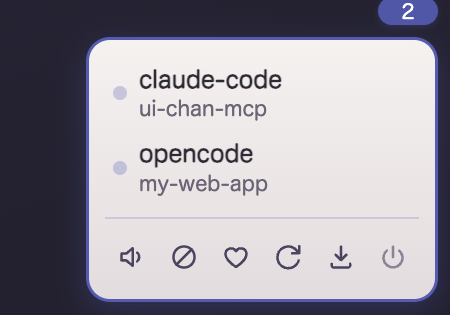
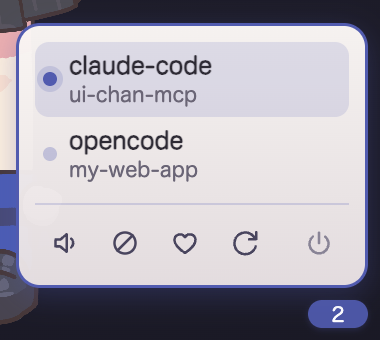
docs: パネルが足元（右下）へ移ったのを文書に反映する
dbbe8a2 でつまみを右下へ移し上へ開くようにしたが、README・CLIENTS・
TROUBLESHOOTING・CLAUDE.md はどれも「右上」のままだった。あわせて、
1f557b7 で入れた「セッション行を押すとそのクライアントを前面に出す」が
どこにも書かれていなかったので足す。

CLAUDE.md の「house = リセット」は実装と食い違っていた（家アイコンは
一度も入っておらず、今も丸矢印）。実装を正として書き直し、意味を
担っているのがグリフではなく title 属性だという事実に合わせる。

スクリーンショットも撮り直し（上端から下へ開く古い状態のままだった）。

Claude-Session: https://claude.ai/code/session_01NVTPpefu5yBBWg15PJSy8S

diff --git a/CLAUDE.md b/CLAUDE.md
@@ -398,10 +398,14 @@ not 「あたし」**) and for calling the user 「きみ」.
 With several hosts able to connect at once, the user needs to know *which*
 session a line belongs to — but a permanent HUD next to the mascot breaks the
 world, which is a hard non-functional requirement here. So the panel is
-collapsed to a small ribbon tab in the window's top-right corner: a **hamburger
-when 0–1 sessions are connected** (nothing to report; it is just a menu), the
-**session count when 2+** are. It opens on click, and opens *itself* only on a
-change into a multi-session state — the one thing the user cannot infer — then
+collapsed to a small ribbon tab in the window's bottom-right corner, at her
+feet: a **hamburger when 0–1 sessions are connected** (nothing to report; it is just a menu), the
+**session count when 2+** are. The tab stays pinned to the bottom edge and the
+body opens *upward* (`flex-direction: column-reverse`): at the top it fought the
+speech bubble for the same space, and the bubble is her voice, so the panel is
+always the one that yields — her feet are the one part no Cue touches, so
+covering them costs no expression. It opens on click, and opens *itself* only on
+a change into a multi-session state — the one thing the user cannot infer — then
 folds away after 6s unless they pinned it open by clicking.
 
 Identity comes from the bridge, not from guesswork: `hello` now carries the MCP
@@ -413,16 +417,21 @@ two windows of the same client apart. Each connection also gets an incrementing
 matching on `name` would light up two rows when the same client is connected
 twice. The list is pushed as an ordinary `RenderCommand` (`connections`) on
 connect/disconnect/tool call, so the panel can never show a stale session.
+Clicking a session row brings that client's app to the front: the pid is walked
+up its parent chain until an `.app` bundle turns up (`node dist/mcp-server.js →
+claude → zsh → login → Ghostty.app`), then `open -a`. Tabs are deliberately out
+of scope — picking one needs AppleScript with a per-terminal dialect and a
+permission dialog, and some terminals have no tabs at all.
 
 Its buttons (`ui-chan:panel-action`) are icon-only in one row — text there
 looked like an app toolbar, and icons keep the height fixed so the panel only
-ever grows downward with sessions. Left to right: しずかに (mutes the *voice*
+ever grows upward with sessions. Left to right: しずかに (mutes the *voice*
 only; the bubble stays, because a fully blank mascot reads as broken), ひといき
 (`clear` — stop talking and drop back to Idling), a **heart** that unfolds the
-affinity slider, a **house** = リセット, and — pushed to the right edge, away
-from the rest — おやすみ.
+affinity slider, a **circular arrow** = 起動しなおす, and — pushed to the right
+edge, away from the rest — おやすみ.
 
-Two of those icons say something the code has to keep true:
+Three of those icons say something the code has to keep true:
 
 - The heart is not a gear because affinity is the *only* thing behind it;
   naming it 設定 would promise a drawer that isn't there. If other settings
@@ -430,15 +439,17 @@ Two of those icons say something the code has to keep true:
   human sets affinity directly — the agent's `adjust_affinity` stays
   direction+magnitude, so this can't be used to sneak past the asymmetric curve
   on her behalf.
-- The house is the relaunch action, renamed: `createWindow` recomputes the
-  bottom-right position from the work area every time, so restarting *already*
-  put her back in her spot. The old circular arrow claimed "reload" while
-  quietly being the only way to recover a window dragged somewhere useless (or
-  stranded off-screen by a display change). The icon now says what it does. The `clear` icon is a **circle with a
-slash**: the action force-quits whatever is playing, which is neither muting
-nor undoing (an arrow), and a ■ only reads as "stop" next to ▶/⏸ — alone it is
-just a square. The prohibition sign carries "stop this" on its own, which is
-what a four-icon utility row needs.
+- The circular arrow is the relaunch action, and what it is *for* lives in its
+  tooltip (「起動しなおす（定位置に戻る）」) rather than in the glyph:
+  `createWindow` recomputes the bottom-right position from the work area every
+  time, so restarting is also the only way to recover a window dragged
+  somewhere useless (or stranded off-screen by a display change). An arrow
+  alone reads as "reload", which undersells that — hence the parenthesis in the
+  title attribute.
+- The `clear` icon is a **circle with a slash**: the action force-quits whatever
+  is playing, which is neither muting nor undoing (an arrow), and a ■ only reads
+  as "stop" next to ▶/⏸ — alone it is just a square. The prohibition sign
+  carries "stop this" on its own, which is what a four-icon utility row needs.
 
 **Who may launch the app** (`ensureConnected`'s `allowLaunch`). Only **bridge
 startup** does — ≈ session start, where configuring the MCP server is itself

diff --git a/README.md b/README.md
@@ -97,7 +97,7 @@ ui-chan
 **繋いだら、もう終わり。** 次にそのアプリを開けば、画面の右下にわたしが出てくる。
 あとは普通に作業して。勝手に喋るから。
 
-### 右上のつまみ
+### 足元のつまみ
 
 <p align="center">
   <img src="docs/images/panel.png" alt="接続パネル" width="360">
@@ -112,8 +112,9 @@ ui-chan
 | ⬇ | 更新する（**更新があるときだけ出る**） |
 | ⏻ | 終了する（呼ばれても起きない） |
 
-<sub>複数のセッションから繋がってるときは、そこに一覧が出るよ（どのツールの、どのプロジェクトか）。
-更新があるときは、ダウンロードのアイコンが増える。</sub>
+<sub>つまみはわたしの足元（右下）にいる。押すと上に開くよ。
+複数のセッションから繋がってるときは、そこに一覧が出る（どのツールの、どのプロジェクトか）。
+**行を押すと、そのアプリが前に出てくる。** 更新があるときは、ダウンロードのアイコンが増える。</sub>
 
 ---
 

diff --git a/docs/CLIENTS.md b/docs/CLIENTS.md
@@ -51,7 +51,9 @@ ui-chan update               # 最新版にする（--check で確認だけ）
 **登録した時点で完了です。** アプリと VoiSona Talk はセッション開始時に自動起動し、人格は
 MCP のハンドシェイク（`instructions`）に乗って渡ります。人格ファイルを貼り付ける作業はありません。
 
-マスコット右上のつまみを開くと、接続中のセッション（クライアント名とプロジェクト名）と操作が出ます。
+マスコット足元（右下）のつまみを開くと、接続中のセッション（クライアント名とプロジェクト名）と
+操作が上に向かって開きます。セッションの行をクリックすると、そのクライアントのアプリが前面に出ます
+（ターミナルの場合はターミナル本体まで。タブの選択まではしません）。
 
 ---
 
